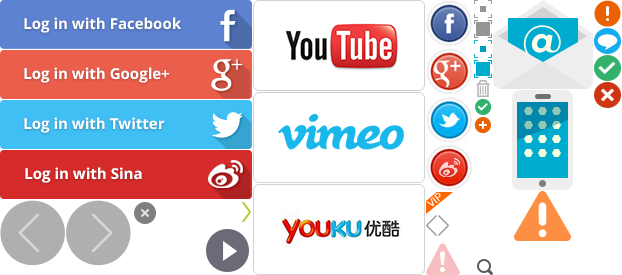
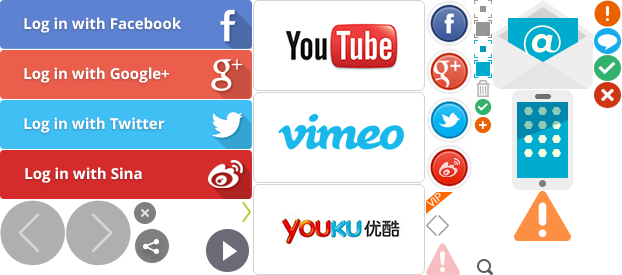
spr

Changed region(s): [[0.2138, 0.8145, 0.2749, 0.96]]

diff --git a/less/works.less b/less/works.less
@@ -30,7 +30,7 @@
 
 
 .work-cell .share{display:none;position:absolute;top:8px;right:8px;}
-.work-cell .share-btn{display:block;width:38px;height:38px;margin:0 2px;border: 2px solid rgba(255, 255, 255, 0.5);border: 2px solid #FFF\9;background-color:rgba(0, 0, 0, 0.8);background-color:#000\9;text-align: center;border-radius: 30px; line-height:38px;overflow:hidden;cursor:pointer;color: #fff;}
+.work-cell .share-btn{display:block;width:38px;height:38px;margin:0 2px;background-position: -133px -227px; line-height:38px;overflow:hidden;cursor:pointer;color: #fff;}
 .work-cell .share-list{display:none;width:42px;height:118px;padding-top:5px;background:rgba(0,0,0,.6);border-radius:5px;}
 .work-cell .show .share-list{display:block;}
 .work-cell .share-list li{display:block;width:21px;height:21px;margin:5px 6px;}

diff --git a/css/module.css b/css/module.css
@@ -1161,12 +1161,7 @@ img {
   width: 38px;
   height: 38px;
   margin: 0 2px;
-  border: 2px solid rgba(255, 255, 255, 0.5);
-  border: 2px solid #FFF\9;
-  background-color: rgba(0, 0, 0, 0.8);
-  background-color: #000\9;
-  text-align: center;
-  border-radius: 30px;
+  background-position: -133px -227px;
   line-height: 38px;
   overflow: hidden;
   cursor: pointer;
